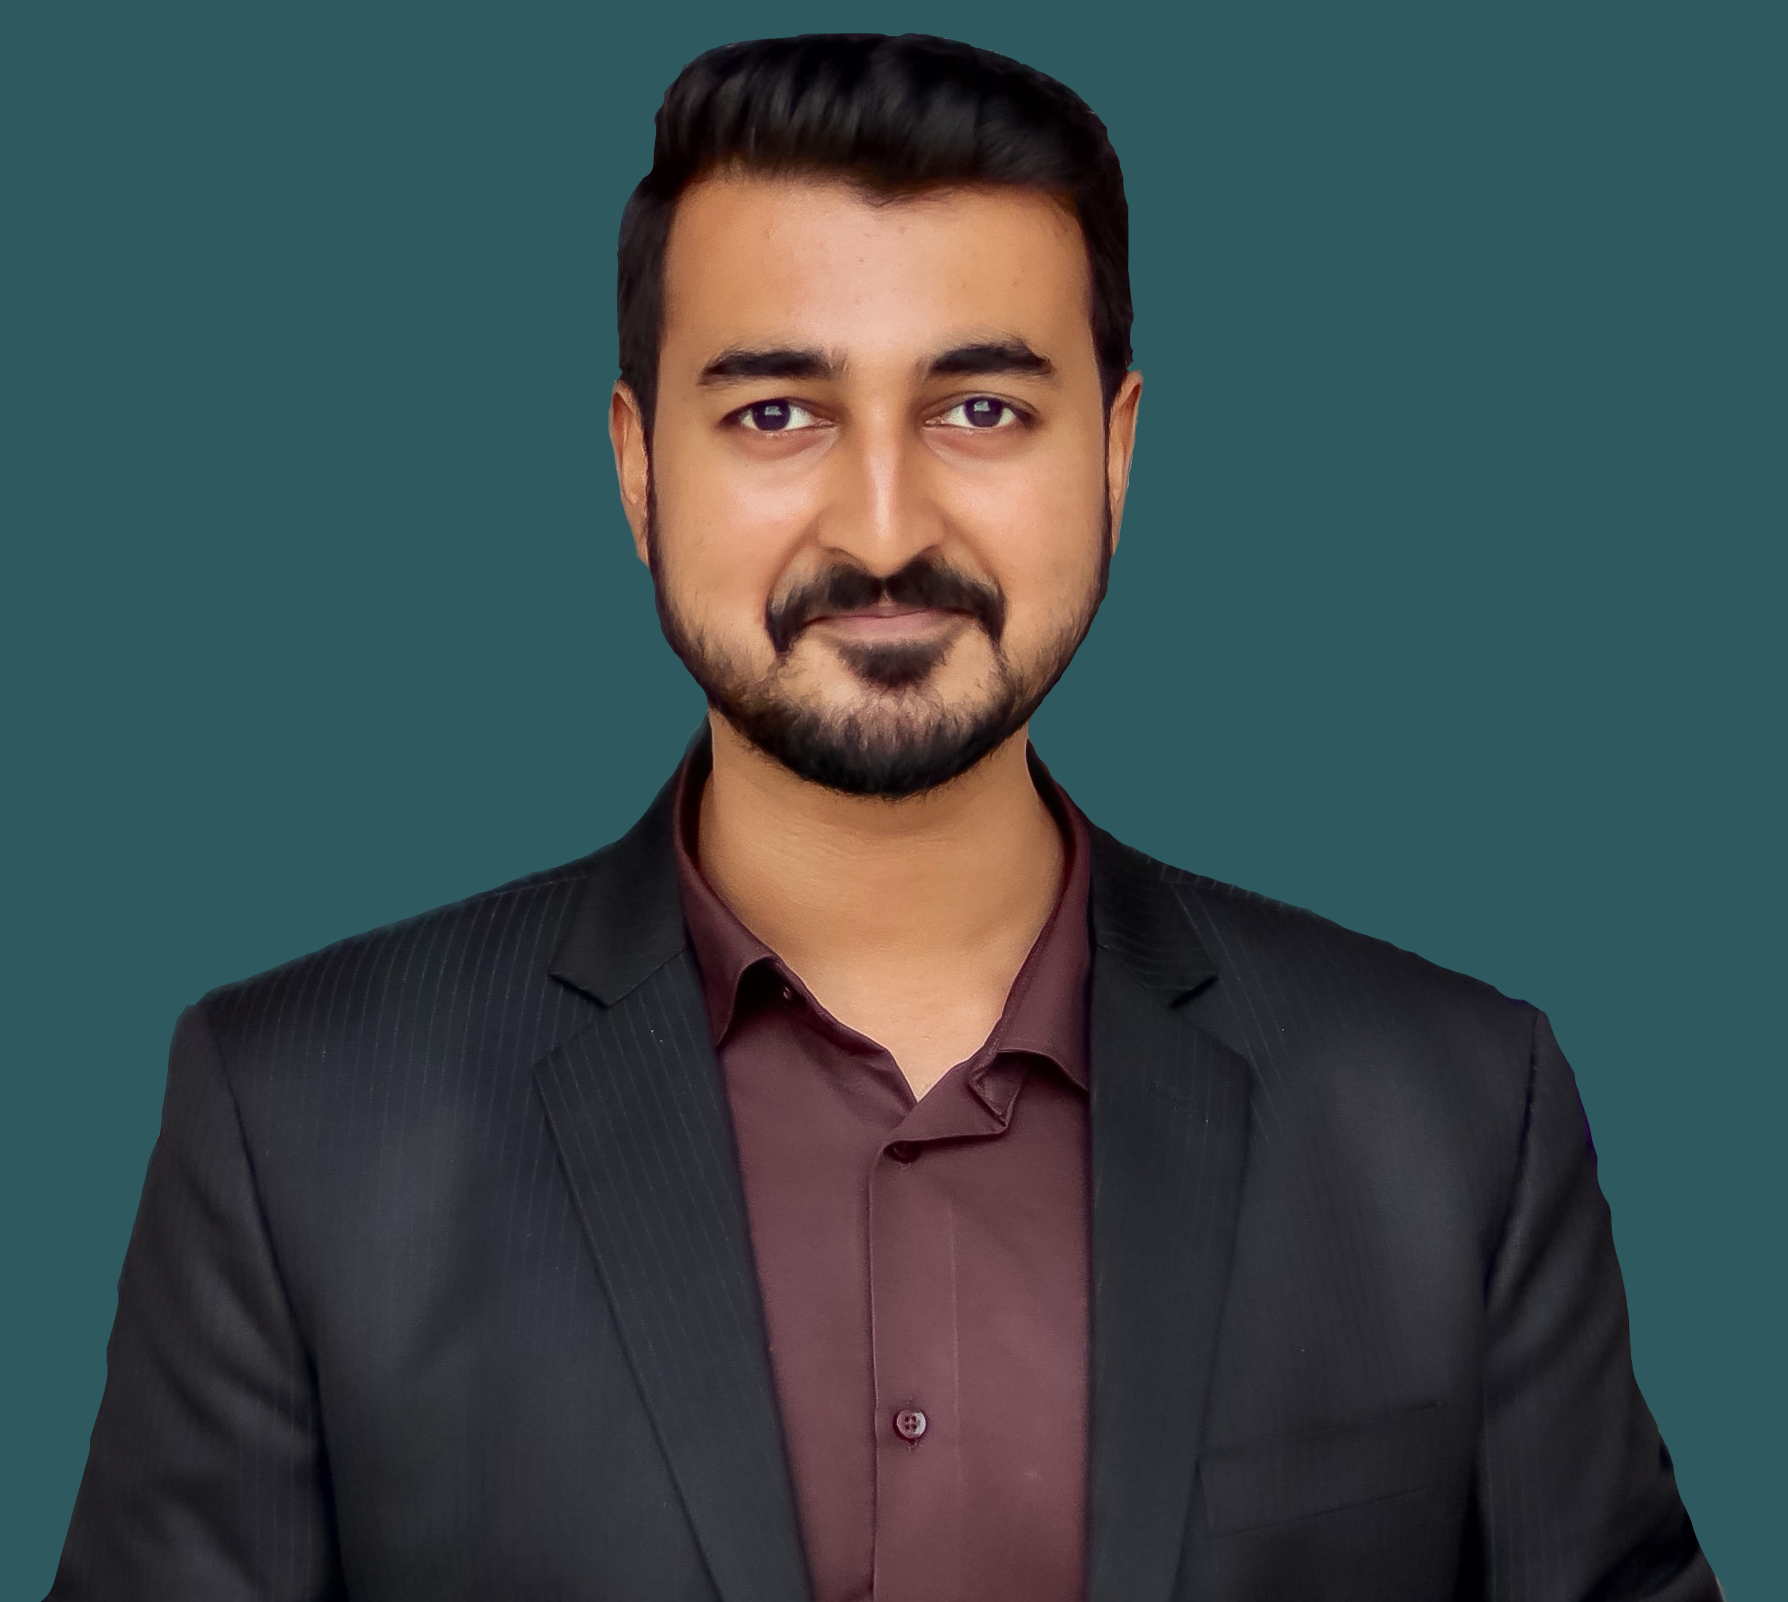
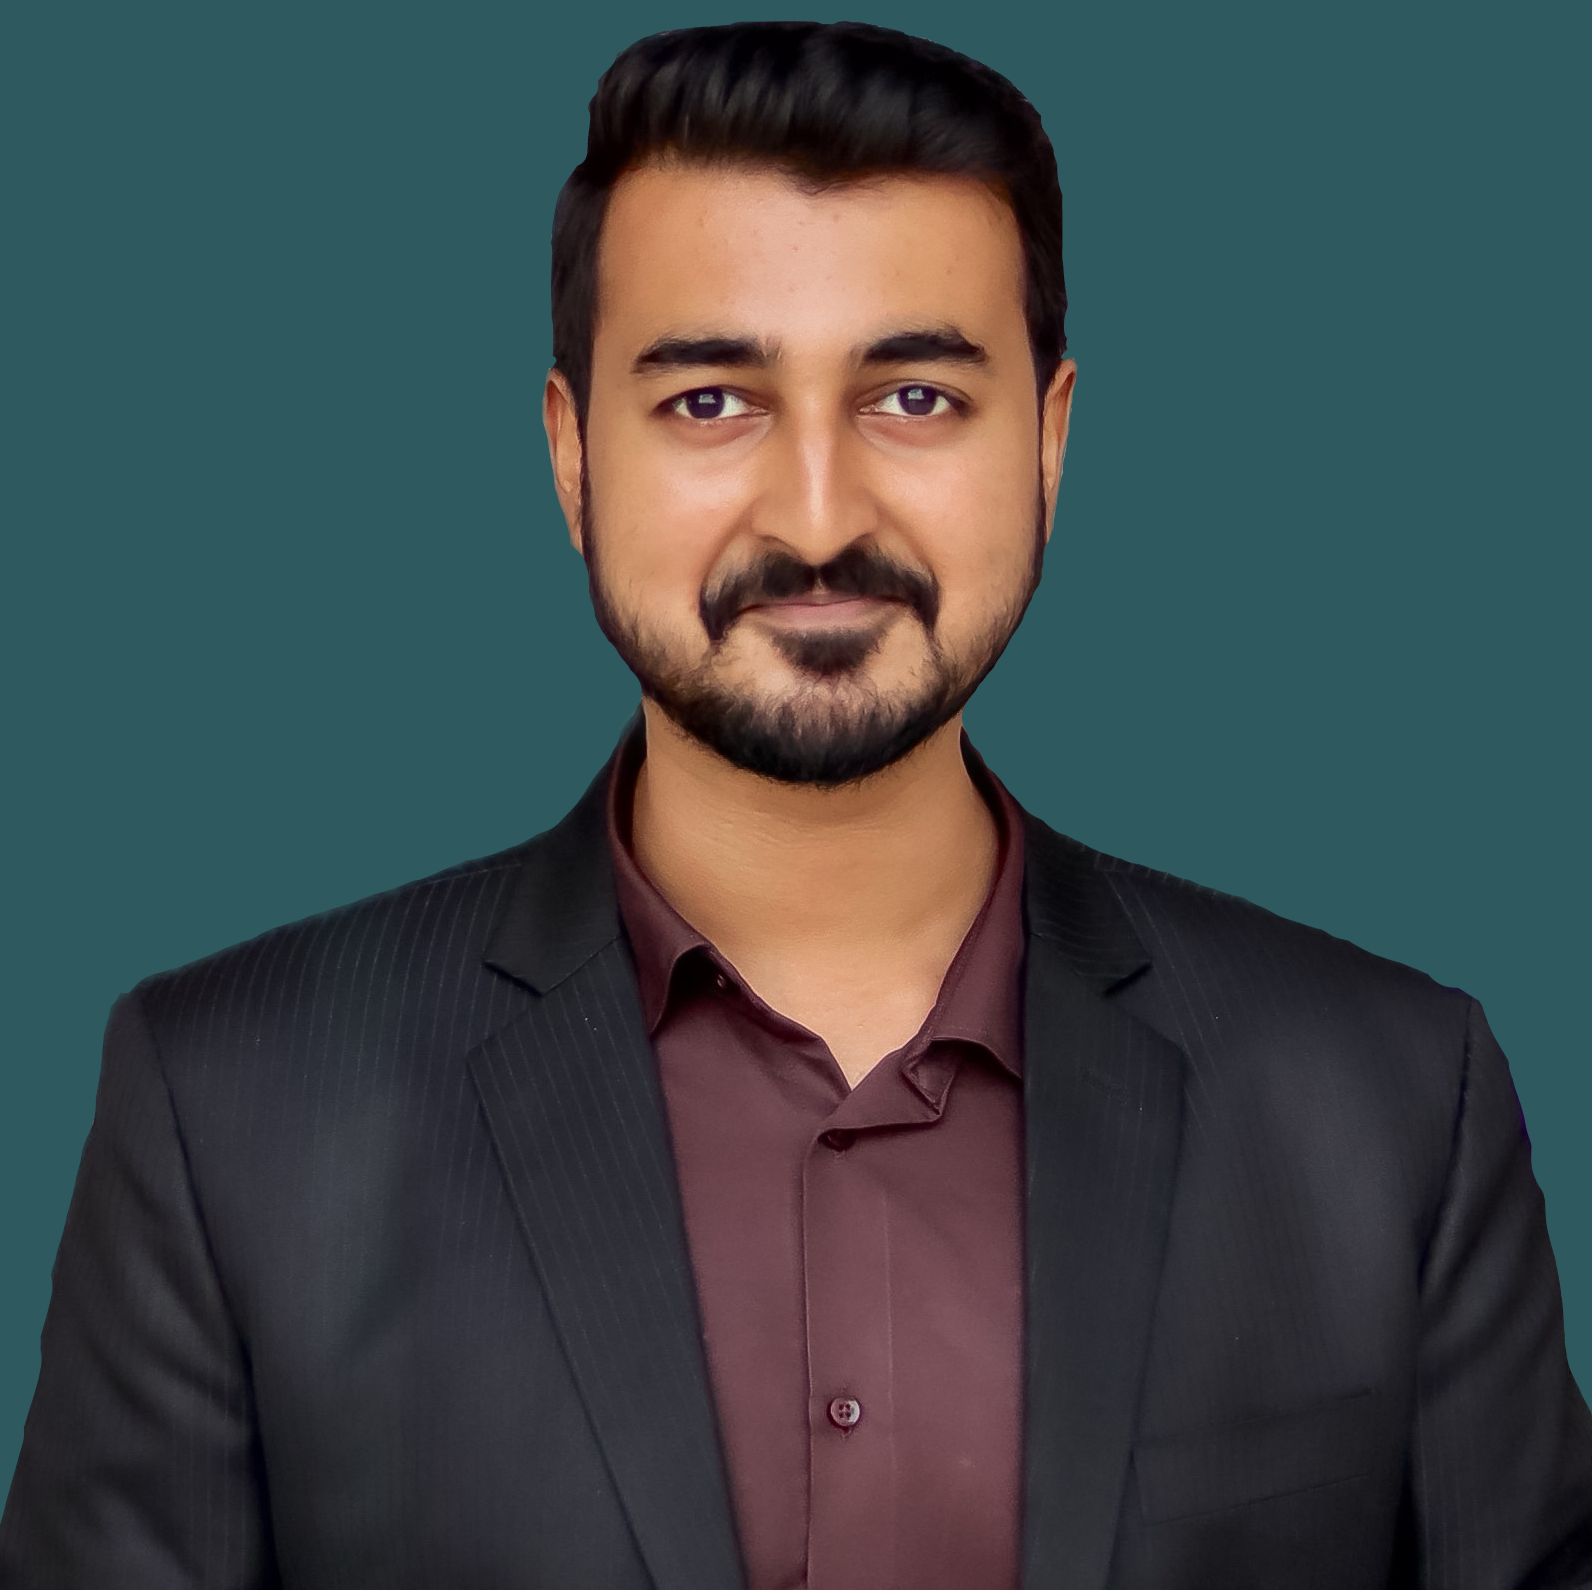
image update

diff --git a/index.html b/index.html
@@ -21,7 +21,7 @@
         <div class="container flex-lg-column">
             <a class="navbar-brand mx-lg-auto mb-lg-4" href="#">
                 <span class="h3 fw-bold d-block d-lg-none">Khondokar Yuvraz</span>
-                <img src="./assets/images/Yuvraz.jpeg" class="d-none d-lg-block rounded-circle" alt="Yuvraz">
+                <img src="./assets/images/YUVRAZ (2).jpeg" class="d-none d-lg-block rounded-circle" alt="Yuvraz">
             </a>
             <button class="navbar-toggler" type="button" data-bs-toggle="collapse" data-bs-target="#navbarNav"
                 aria-controls="navbarNav" aria-expanded="false" aria-label="Toggle navigation">